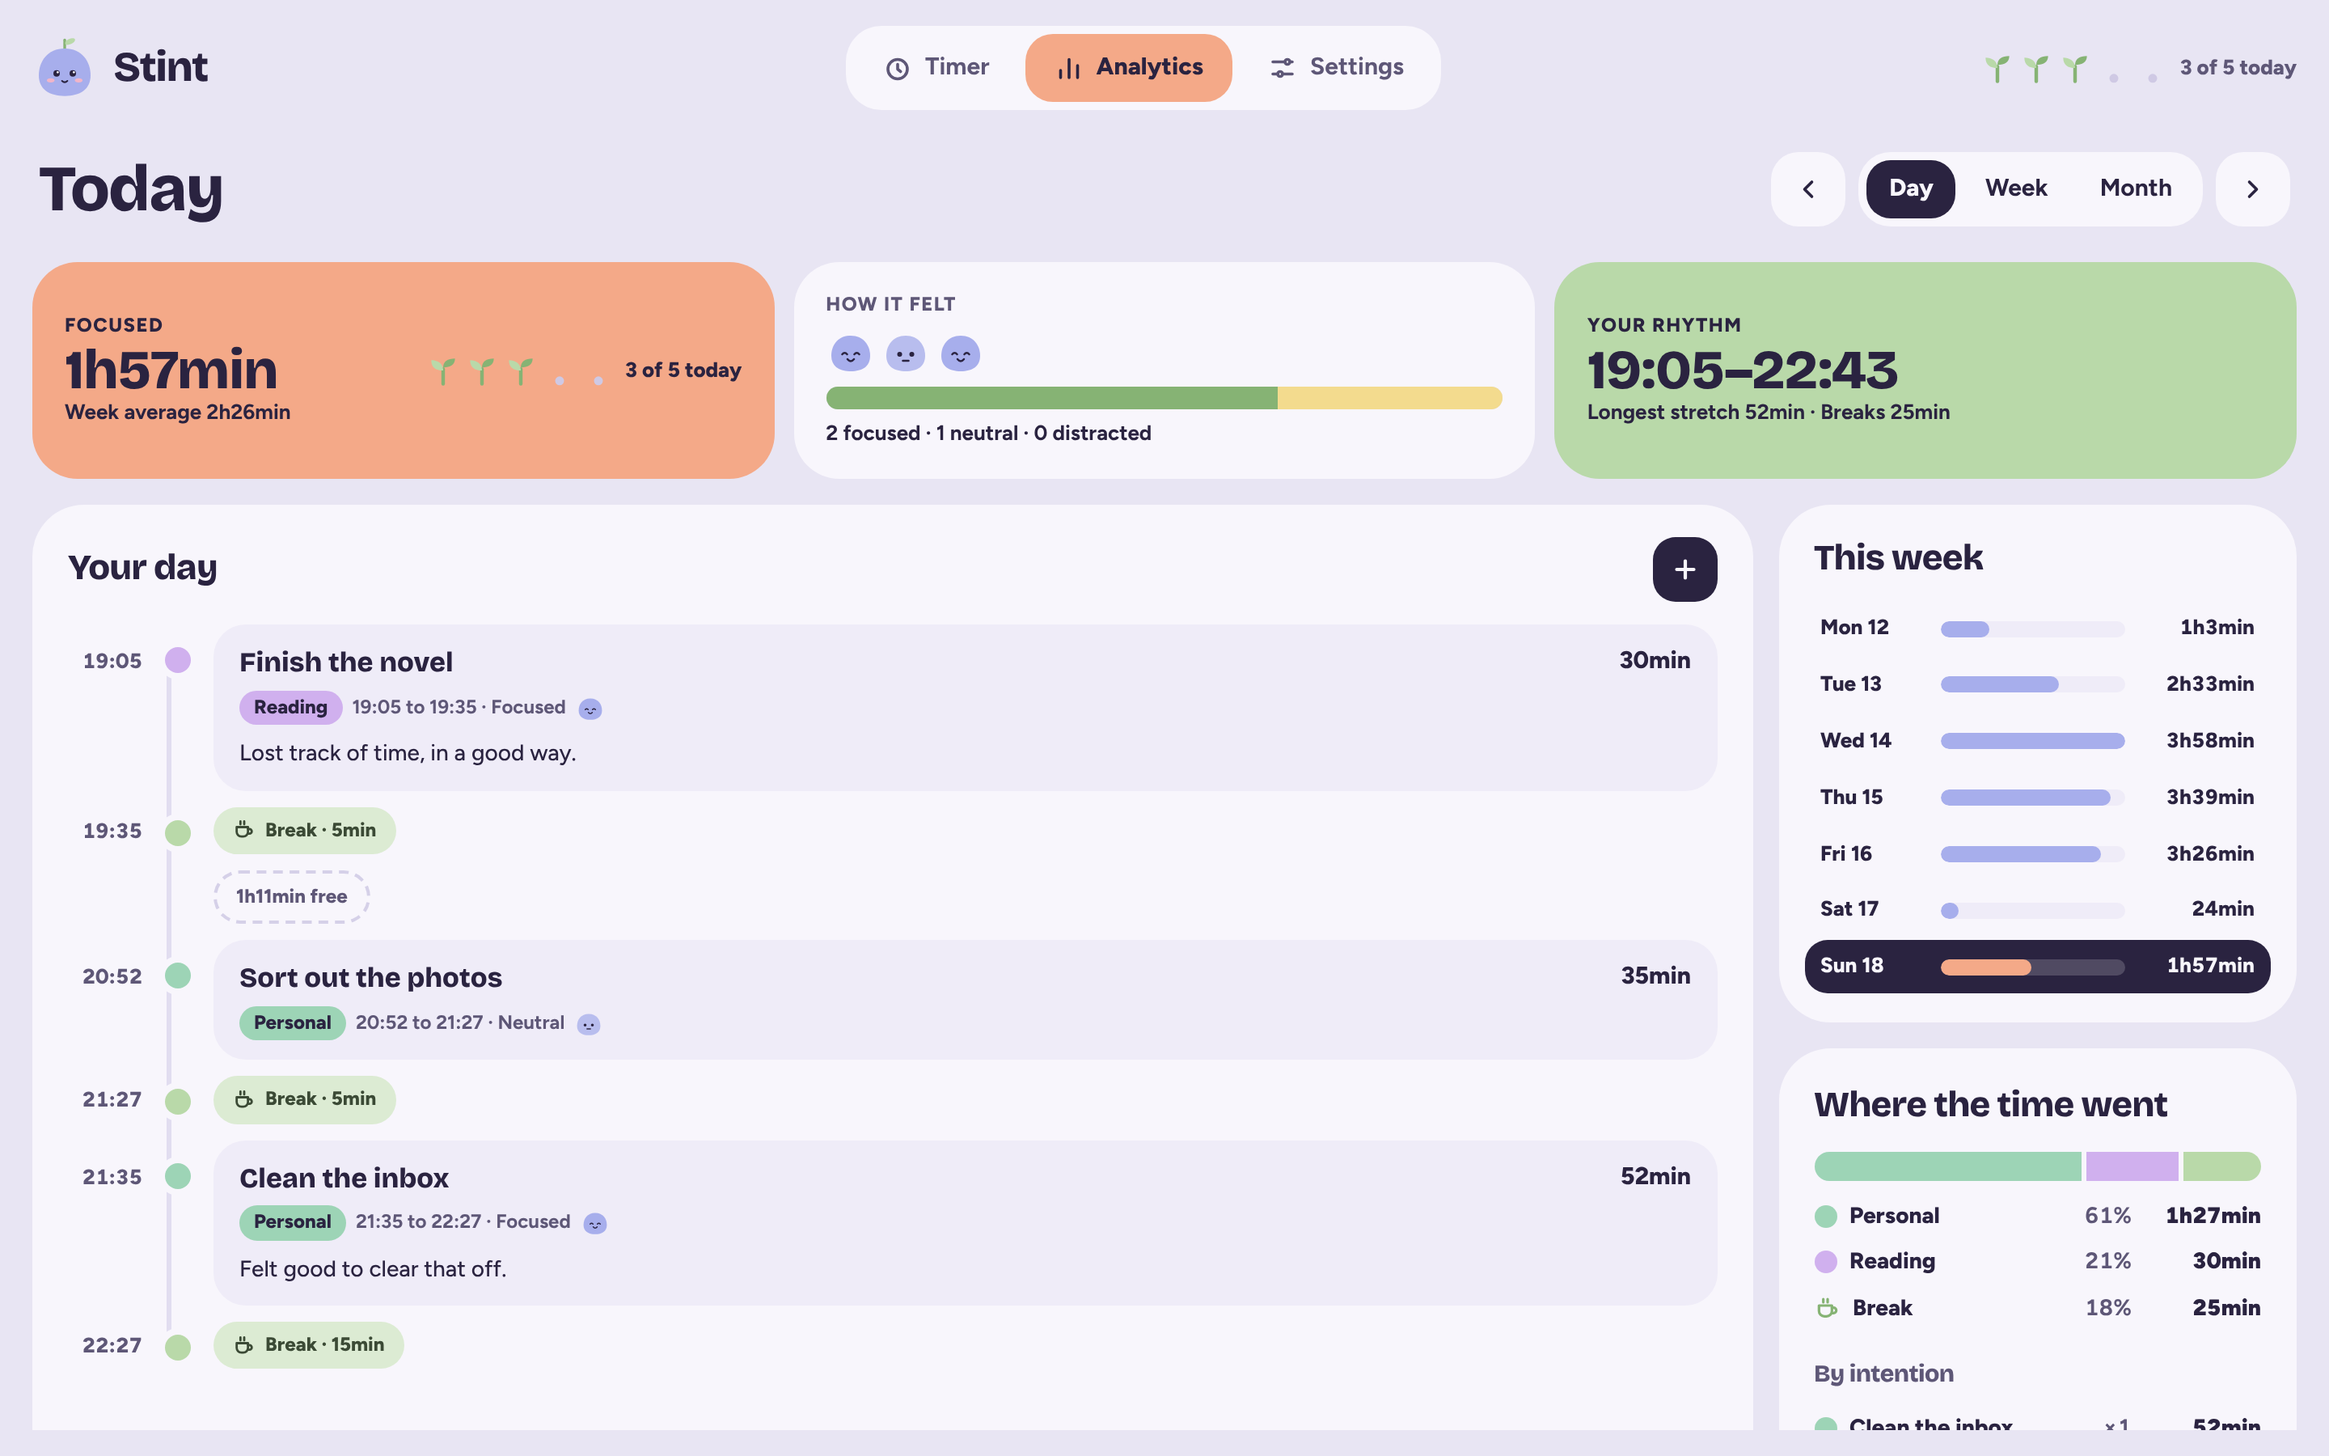
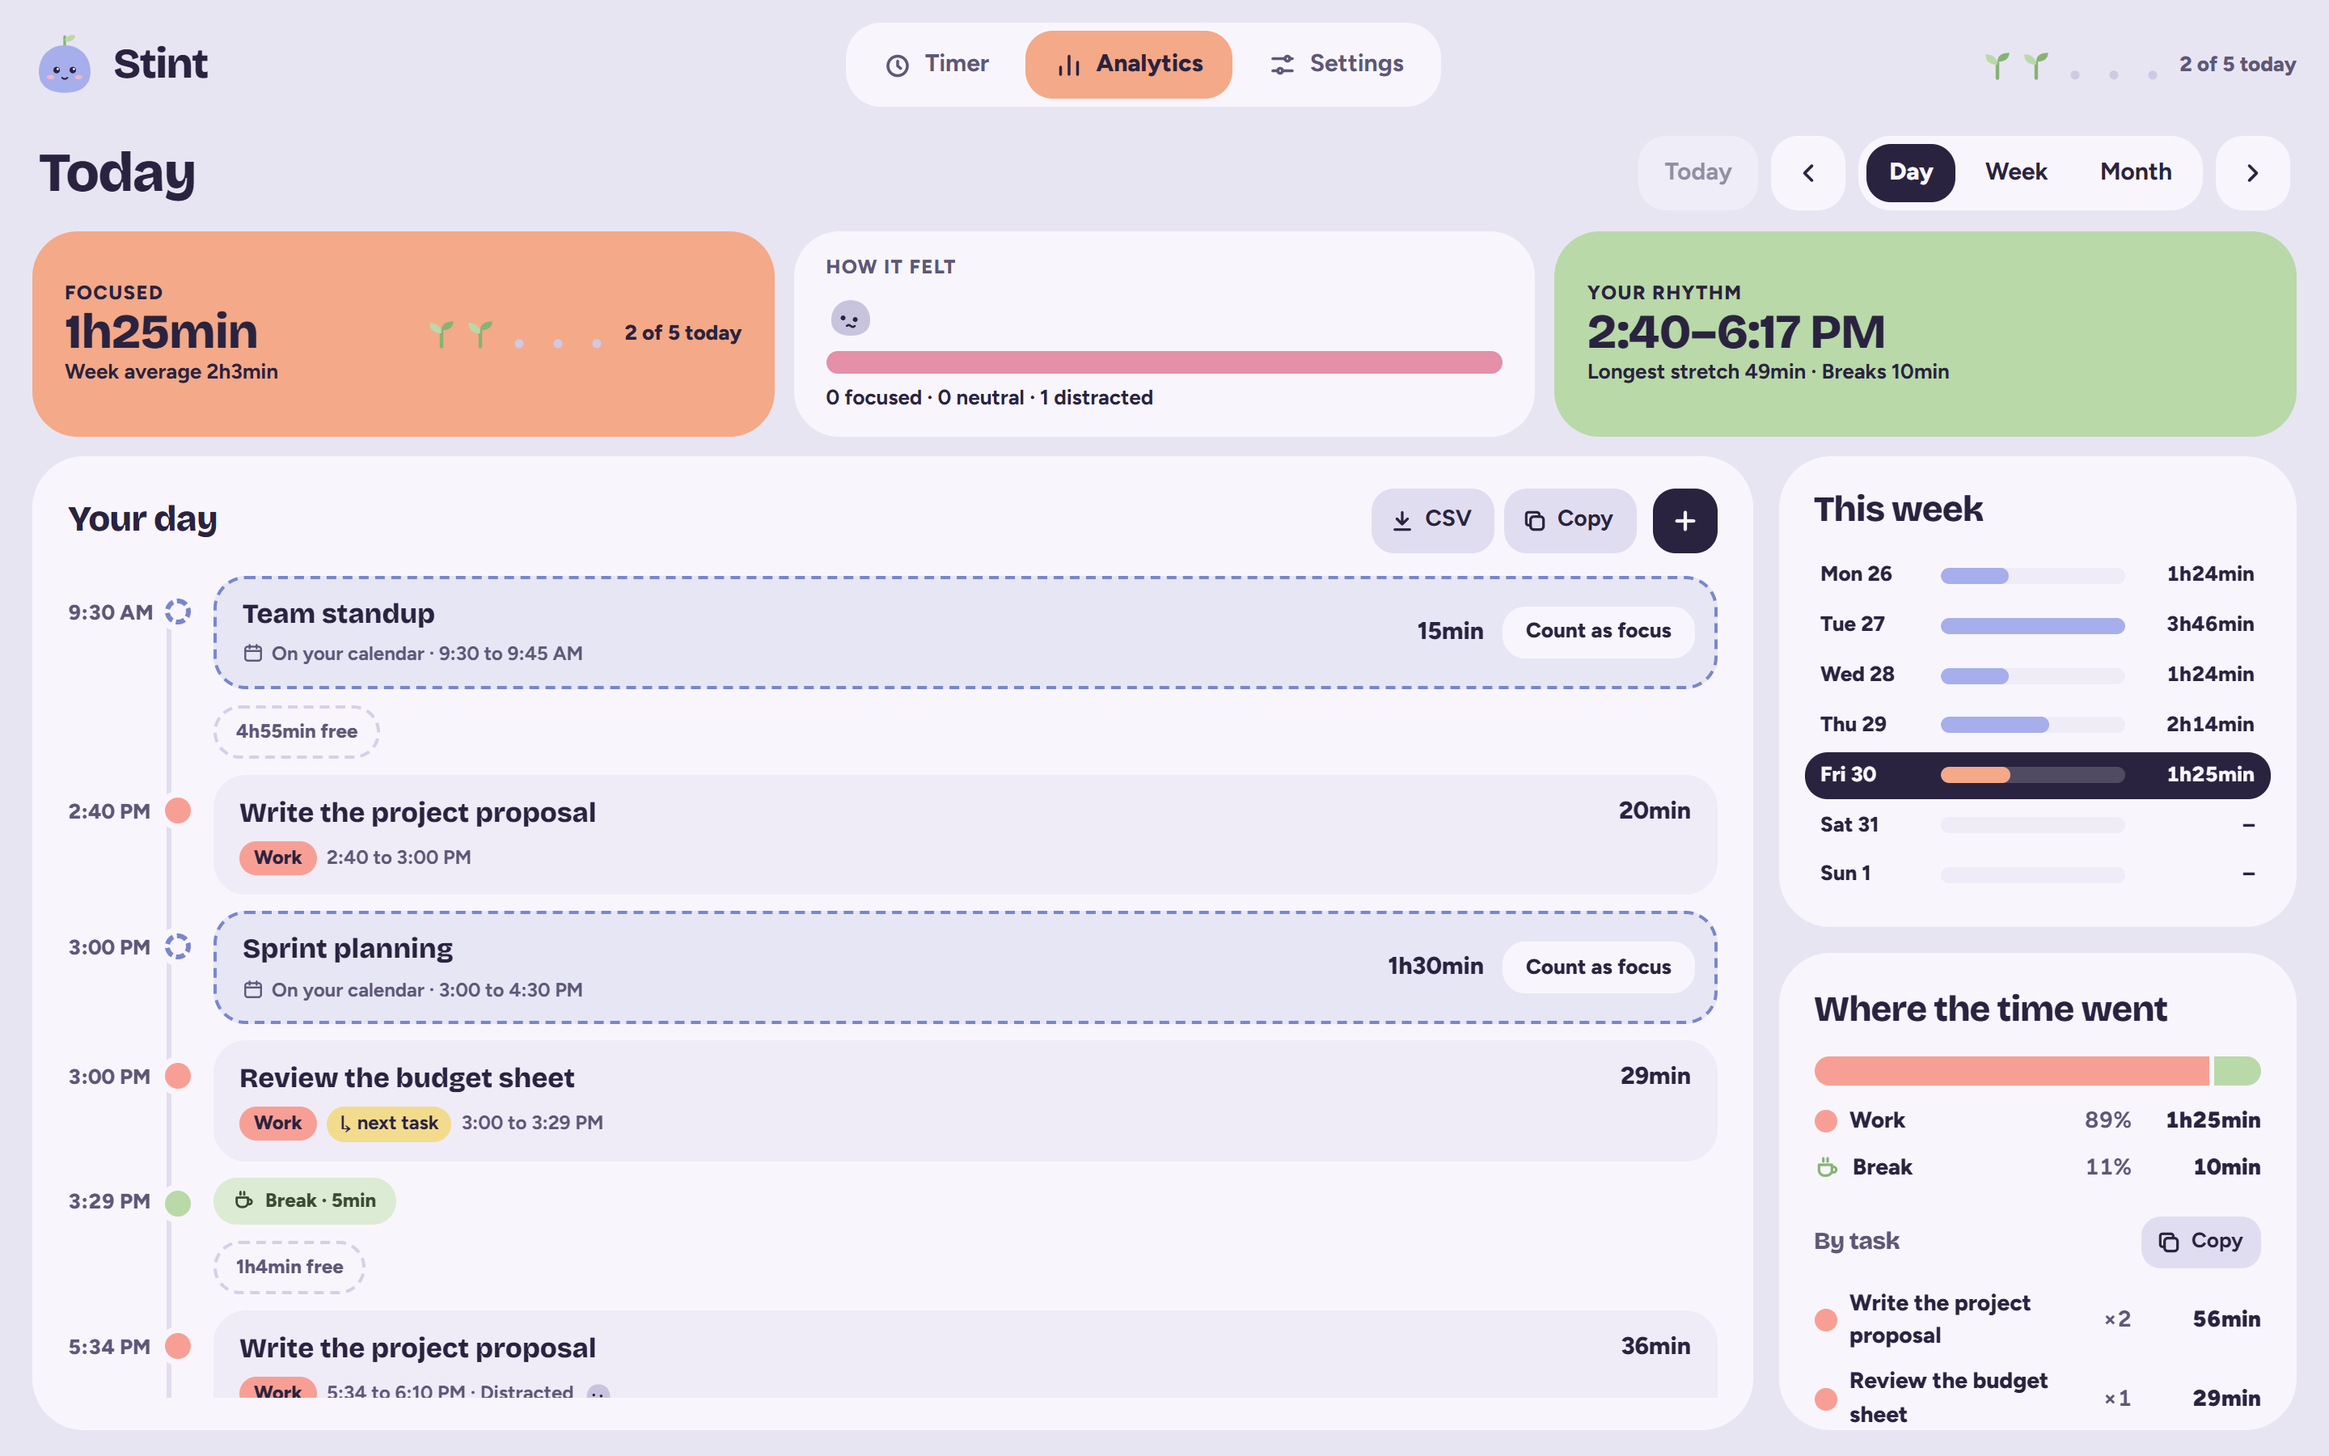
docs(readme): update features, how it works and screenshots

diff --git a/README.md b/README.md
@@ -2,9 +2,9 @@
 
 A focus timer for Windows that ties every session to what you meant to do, asks how it went, and shows where your day actually went.
 
-![Stint's timer on desktop and phone: a lavender window with a "What are we working on?" form on the left, a flower-shaped dial reading 25:00 with the mascot Pip in the middle, and a timeline of today's sessions along the bottom. A phone-sized version of the same screen sits on the right with a bottom tab bar.](screenshots/preview.png)
+![Stint's timer on desktop and phone: a lavender window with a "What are we working on?" form, recent tasks and the next calendar event on the left, a flower-shaped dial reading 25:00 with the mascot Pip in the middle and a Timer or Flow switch under it, and a timeline of today's sessions and calendar events along the bottom. A phone-sized version of the same screen sits on the right with a bottom tab bar.](screenshots/preview.png)
 
-**[Live demo](https://rachelmgaldino.github.io/stint/)** (the web build, with sample sessions kept in your browser)
+**[Live demo](https://rachelmgaldino.github.io/stint/)** (the web build, with sample sessions and a pretend calendar, kept in your browser)
 
 ## Overview
 
@@ -12,46 +12,59 @@ I plan my day in focus sessions: say what I'm about to do, run a timer, note how
 
 ## Features
 
-- Drag a dot around the dial to set any session length, or to change the time left while it runs
-- An intention and a category for each session, with a daily goal shown as sprouts
+- Drag a dot around the dial to set a session of up to 3 hours, or to change the time left while it runs
+- Flow mode for focus that counts up with no time limit
+- An intention and a category for each session, with recent tasks to pick from and a daily goal drawn in each look's own style
+- Next task switches tasks inside a session, and Split does it afterwards, so the day shows the real time per task
 - Sessions and breaks keep counting into overtime until you end them, so stopping is always a choice
+- Short and long breaks: the long one comes once enough focus has piled up today
+- Reminders: a heads-up before the end, a presence sound during focus, and nudges when a session, a break or a pause runs too long
+- A floating timer, as a round bubble or a pill at the top of the screen, while Stint is minimized or in the tray
 - A short reflection afterwards (what got done, how it felt), which can be switched off
-- Analytics by day, week and month: a timeline of the day with notes and breaks, focus by category and intention, and change from the previous period
-- Two-way link with Google Calendar: each session is written to a calendar you pick, and your calendar's events show beside your sessions
-- Updates itself: Settings checks GitHub for a newer version, downloads it and restarts, with a quiet check when it opens
-- Two looks (Lavender with Pip, Mochi the cat), each with light, dark and match-Windows themes, in English or Portuguese (Brazil)
+- Add or edit past sessions and breaks by hand, and move the start of a running session if you started the timer late
+- Analytics by day, week and month: a timeline of the day with notes and breaks, focus by category and task, and change from the previous period
+- Export a day as a CSV, or copy a short summary
+- Two-way link with Google Calendar: sessions from the categories you choose are written to a calendar you pick, and your calendar's events show beside your sessions, where a past one can count as focus
+- Updates itself: Settings checks GitHub for a newer version and Update now installs it and restarts, with a quiet check when it opens and every six hours
+- Four looks (Lavender with Pip, Mochi the cat, Notebook with Memo the sticky note, Riso with a mushroom by day and a ghost by night), each with light, dark and match-Windows themes, in English or Portuguese (Brazil)
+- Mascots warm up after an hour of focus and overheat after two, as a nudge to take a break
+- A Size setting from 70% to 150%, also on Ctrl +, Ctrl - and Ctrl 0
 
-![Two timer screens side by side: Lavender in its dark plum theme, and the Mochi look with a cat in the dial on sage-green paper.](screenshots/looks.png)
+![The timer in all four looks: Lavender in its dark plum theme, Mochi with a cat in the dial on sage-green paper, Notebook with a sticky note on a ruled page and a doodled dial, and Riso with a mushroom on a pink and blue print.](screenshots/looks.png)
 
-![The Analytics Day view: tiles for time focused, how the sessions felt and the day's rhythm; a vertical timeline of sessions with their notes and the breaks and free gaps between them; and a side column with this week's totals and where the time went by category.](screenshots/analytics-day.png)
+![The Analytics Day view: tiles for time focused, how the sessions felt and the day's rhythm; a vertical timeline of sessions, calendar events with a Count as focus button, tasks switched with Next task, and the breaks and free gaps between them; and a side column with this week's totals and where the time went by category and task.](screenshots/analytics-day.png)
 
 ## How it works
 
-**A desktop app, not a website.** A focus timer has to keep time while its window is hidden and notify you when it's done. Browsers throttle timers in background tabs, so a web page can be late to tell you a session is over, and it stops entirely once the tab is closed. Stint is a [Tauri 2](https://tauri.app) app: a Rust process owns the window, the tray icon and the alarm, and the interface is React running in the system's WebView. It uses the WebView2 runtime that already ships with Windows instead of bundling a whole browser the way Electron apps do.
+**A desktop app, not a website.** A focus timer has to keep time while its window is hidden and notify you when it's done. Browsers throttle timers in background tabs, so a web page can be late to tell you a session is over, and it stops entirely once the tab is closed. Stint is a [Tauri 2](https://tauri.app) app: a Rust process owns the windows, the tray icon and the alarms, and the interface is React running in the system's WebView. It uses the WebView2 runtime that already ships with Windows instead of bundling a whole browser the way Electron apps do.
 
-**Time comes from the wall clock, not from ticks.** The timer state (`src/timer.ts`) stores when a session started and how long it was paused, and computes what's left from `Date.now()`. A hidden window, a laptop going to sleep or a slow frame can't make it lose time. The "time's up" notification is scheduled in Rust (`src-tauri/src/lib.rs`) in short naps against the wall clock, so a laptop that sleeps through the end still notifies the moment it wakes, even with the window closed to the tray.
+**Time comes from the wall clock, not from ticks.** The timer state (`src/timer.ts`) stores when a session started and how long it was paused, and computes what's left from `Date.now()`. A hidden window, a laptop going to sleep or a slow frame can't make it lose time. The alarms (the end of a session or break, the heads-up, the nudges and the presence sound) are scheduled in Rust (`src-tauri/src/lib.rs`) in short naps against the wall clock, so a laptop that sleeps through the end still notifies the moment it wakes, even with the window closed to the tray.
+
+**A floating timer that stays out of the way.** While Stint is minimized or in the tray, a second frameless, see-through window (`src-tauri/src/float.rs`) shows the running session as a bubble, or as a pill at the top of the screen. The window keeps one size and never moves on its own, so the bubble stays put when its buttons open. At rest it lets clicks through to the apps underneath, and Rust checks the pointer every 50ms to open it once the pointer reaches the bubble. The pill snaps to the middle of the screen or docks to a side with a fixed 9px gap.
+
+**One session, several tasks.** Next task closes the task you're on and starts another while the timer keeps going. Each task is saved as its own record, linked to the others by the session's start (`partOf`, handled in `src/tasks.ts`), so the day shows the exact time per task while session counts, ratings and the Google Calendar event still treat them as one session. Split does the same afterwards, for a saved session where the switch wasn't marked.
 
 **Google sign-in without a server.** Calendar access uses OAuth for installed apps: Stint opens a one-time loopback port on `127.0.0.1`, sends you to Google with a PKCE challenge, and catches the redirect itself (`src-tauri/src/google.rs`). The refresh token goes into Windows Credential Manager, never into the app's database or the interface. The UI asks Rust to make Calendar requests on its behalf and never sees a token, and those requests can only reach Calendar endpoints. Each person supplies their own Google OAuth client, so there's no shared secret in the repository and no third party in the middle.
 
 **Updates that can't be swapped.** Stint updates itself from GitHub Releases with Tauri's updater (`src-tauri/src/updates.rs`). The Release workflow, which runs each time a pull request is merged, signs the installer with a private key kept only in GitHub Actions secrets and publishes a `latest.json` next to it; the app holds the matching public key and refuses any installer whose signature doesn't match. By default it only looks at the latest published release. Turning on "Test builds" also offers the pre-release built for each open pull request: those are signed the same way, carry a version like `1.4.4-pr.49.120` (newer than the release they were built on, older than the one that ships them), and turning the switch off offers the release again to go back.
 
-**Your data stays on your machine.** Sessions, categories and settings live in a local SQLite file, with the schema in versioned migrations. There's no account and no sync service. Events Stint writes to Google are tagged with a private property, so when it reads your calendar back it skips its own sessions instead of showing them twice.
+**Your data stays on your machine.** Sessions, categories and settings live in a local SQLite file, with the schema in versioned migrations. There's no account and no sync service. Events Stint writes to Google are tagged with a private property, so when it reads your calendar back it skips its own sessions instead of showing them twice. A session counted from an event remembers that event, so it stops showing and sync doesn't add a second copy.
 
 **One interface, three places.** The same React code runs as the desktop app, as `npm run dev` in a browser (with data in localStorage instead of SQLite), and as the public demo on GitHub Pages. Below 640px it switches to a phone layout with a bottom tab bar and bottom sheets, which is what the demo shows on a phone.
 
 ## Tech
 
-- **Desktop shell:** Tauri 2 and Rust (tray, notifications, single instance, signed self-updates, OAuth with `reqwest`, `keyring`, `sha2`)
-- **Interface:** React 19 and TypeScript, built with Vite; plain CSS with custom properties for the two looks and their themes
+- **Desktop shell:** Tauri 2 and Rust (tray, notifications, single instance, floating window, save dialog, signed self-updates, OAuth with `reqwest`, `keyring`, `sha2`)
+- **Interface:** React 19 and TypeScript, built with Vite; plain CSS with custom properties for the four looks and their themes
 - **Data:** SQLite through `tauri-plugin-sql`
-- **Tests:** Vitest for timer, dial, date, analytics and calendar logic; Rust unit tests for PKCE and the OAuth redirect parser
-- **CI:** GitHub Actions tests and builds the Windows installer on every push, attaches a test installer to every pull request, publishes a versioned GitHub Release (with a version bump) every time a pull request is merged, and deploys the web demo to GitHub Pages
+- **Tests:** Vitest for timer, dial, date, analytics, calendar, alarm, break, task, report and update logic; Rust unit tests for PKCE and the OAuth redirect parser
+- **CI:** GitHub Actions tests and builds the Windows installer on every push to main and every pull request, attaches a test installer to pull requests from this repo, publishes a versioned GitHub Release (with a version bump) every time a pull request is merged, and deploys the web demo to GitHub Pages
 
 ## Running it locally
 
 ### Prerequisites
 
-- Node.js 22 or newer
+- Node.js 22.12 or newer, on an even-numbered release (22, 24, 26)
 - Rust (stable), only for the desktop app
 - On Windows, the WebView2 runtime (already present on Windows 10 and 11)
 
@@ -69,7 +82,7 @@ To try it without building, download the `.exe` from the [latest release](https:
 
 ### Google Calendar
 
-Optional. You need your own OAuth client: in Google Cloud Console, enable the Google Calendar API, set up the consent screen as External and publish it, then create an OAuth client of type **Desktop app**. Paste its client ID and secret into **Settings, Calendar** and click **Connect**. Stint asks only to read your calendar list and manage events; **Disconnect** deletes the stored token and revokes it at Google.
+Optional. You need your own OAuth client: in Google Cloud Console, enable the Google Calendar API, set up the consent screen as External and publish it, then create an OAuth client of type **Desktop app**. Paste its client ID and secret into **Settings, Google Calendar** and click **Connect**. Stint asks only to read your calendar list and manage events; **Disconnect** deletes the stored token and revokes it at Google.
 
 ### Updates
 
@@ -79,7 +92,7 @@ Every merged pull request becomes a release: a patch version by default, or mino
 
 - [ ] No blocking of distracting apps or websites during a session yet. It's the feature I'd add next
 - [ ] No global hotkey: Space and the arrow keys only work while the window has focus
-- [ ] If a calendar write fails (for example, Google revoked the sign-in), it's only logged. The app should say so and offer to reconnect
+- [ ] If a calendar write fails (for example, Google revoked the sign-in), it's only logged, and new events are retried on the next sync. The app should say so and offer to reconnect
 - [ ] The installer isn't code-signed, so every new version triggers a SmartScreen warning
 - [ ] Windows only. The phone layout exists, but there's no iPhone build yet
 
